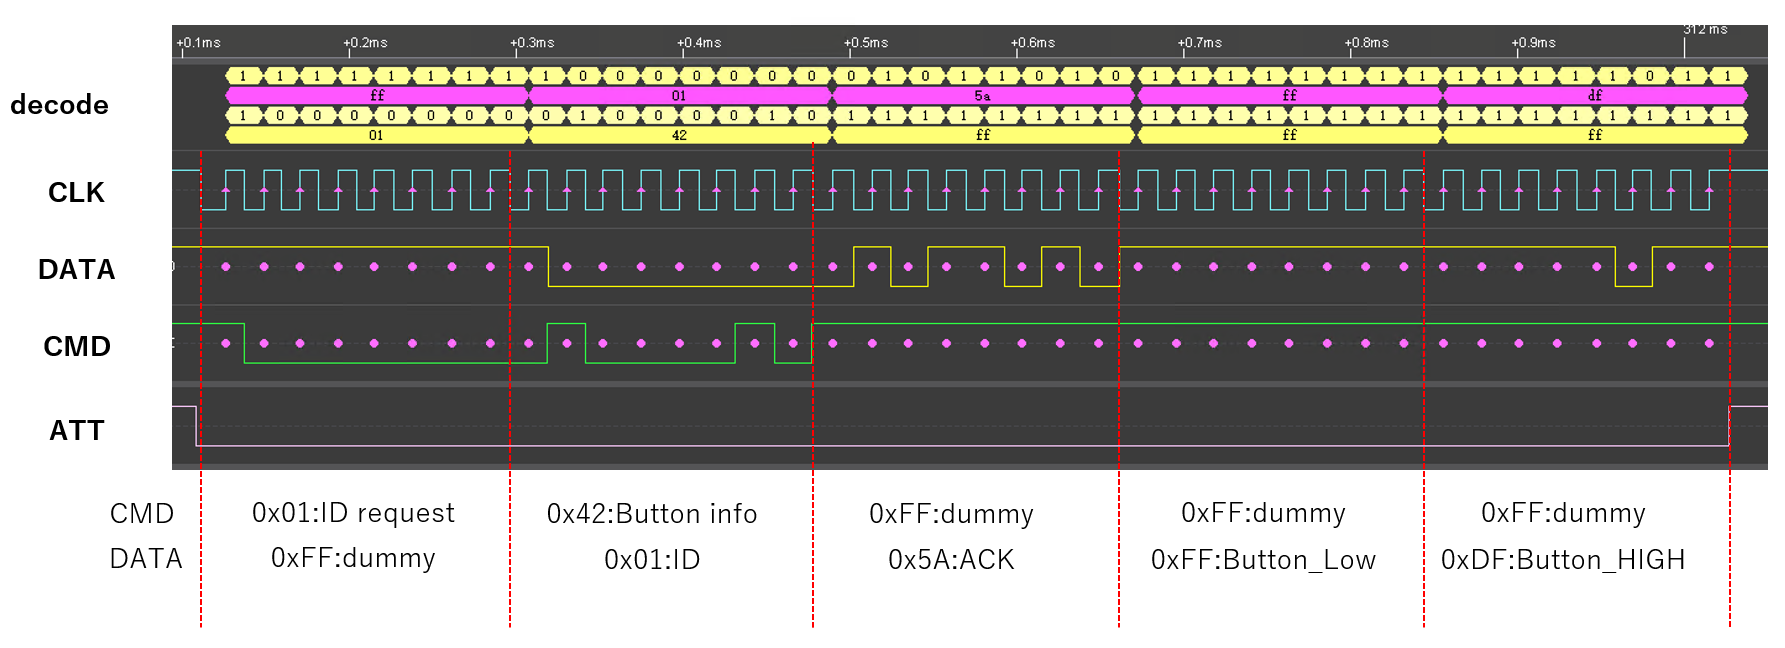
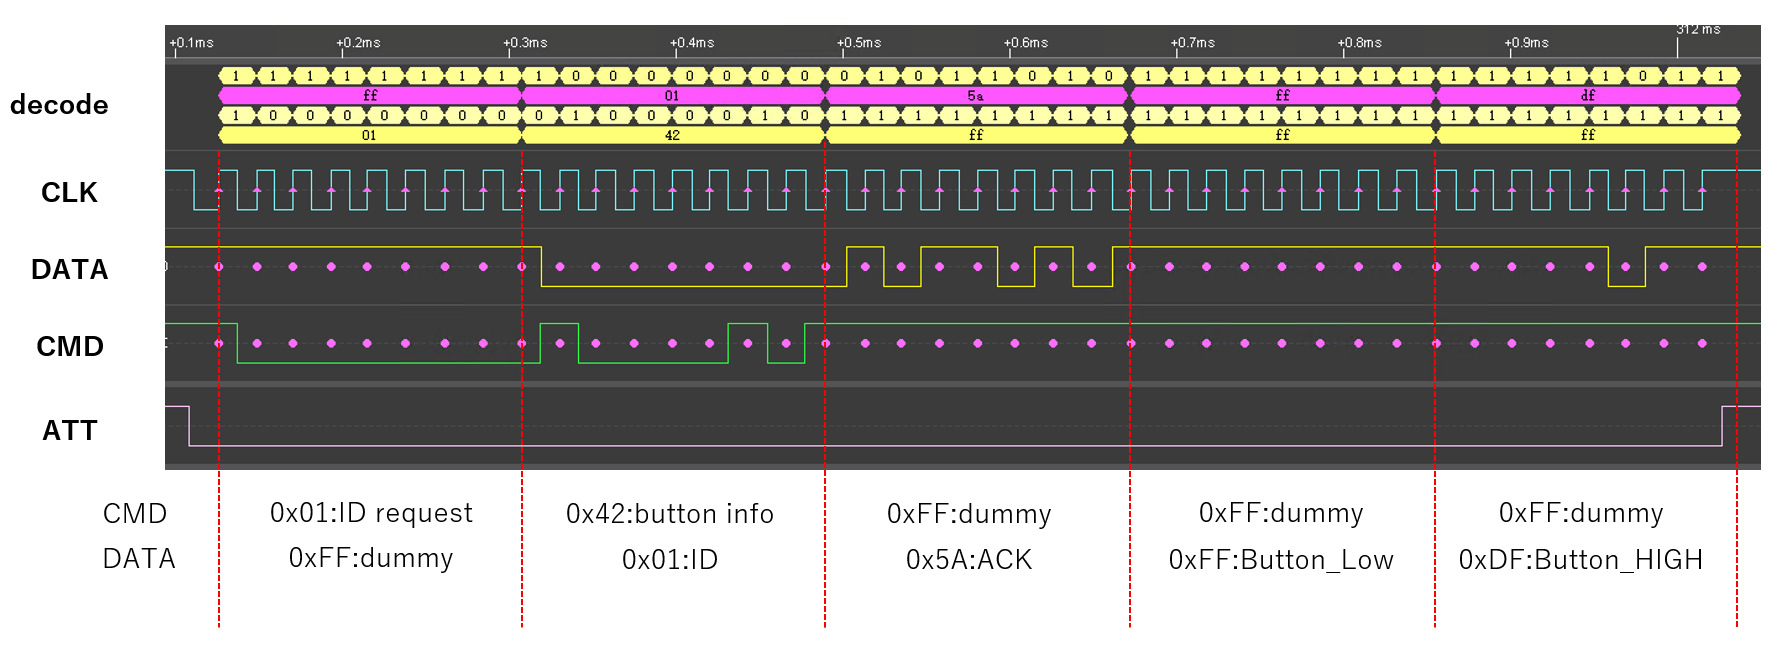
Add communication sequence and button data sections to README

diff --git a/README_JP.md b/README_JP.md
@@ -52,6 +52,39 @@ PSx コントローラーとの通信波形は以下の通りです。
 
 ![通信波形](img/protocol.png)
 
+### 通信シーケンス
+
+通信は1バイト単位で行います。
+ホストはCMDへデータを送信しながら、同時にDATAから受信します。
+コントローラは前のコマンドを処理した結果をホストに返します。
+
+例えばボタン状態を取得する場合は、次のような通信シーケンスになります。
+
+| CMD  |  CMDの内容   | DATA |   DATAの内容   |
+|------|--------------|------|----------------|
+| 0x01 | ID要求       | 0xFF | ダミー         |
+| 0x42 | ボタン情報   | 0x** | ID             |
+| 0xFF | クロック送信 | 0x5A | ACK            |
+| 0xFF | クロック送信 | 0x** | Button Low     |
+| 0xFF | クロック送信 | 0x** | Button High    |
+
+### ボタンデータ
+
+取得したボタン情報は、以下の順番で各ビットに割り当てられます。（LSB first)
+ボタンが押されていない時は"1"、ボタンが押されている時は"0"になります。
+
+[Button Low]
+
+| bit |   0   |   1   |   2   |   3   |   4   |   5   |   6   |   7   |
+|-----|-------|-------|-------|-------|-------|-------|-------|-------|
+| Btn |  SEL  |   -   |   -   | START |  UP   | RIGHT | DOWN  | LEFT  |
+
+[Button High]
+
+| bit |   0   |   1   |   2   |   3   |   4   |   5   |   6   |   7   |
+|-----|-------|-------|-------|-------|-------|-------|-------|-------|
+| Btn |  L2   |  R2   |  L1   |  R1   |  △   |  〇   |  ×   |  □   |
+
 ## API
 
 ### コンストラクタ

diff --git a/README.md b/README.md
@@ -55,6 +55,42 @@ The communication waveform with the PSx controller is shown below.
 
 ![Communication waveform](img/protocol.png)
 
+### Communication Sequence
+
+Communication is performed one byte at a time.
+The host sends data on CMD while simultaneously receiving data on
+DATA. The controller returns the result of processing the previous
+command to the host.
+
+For example, reading the button state involves the following
+communication sequence:
+
+| CMD  |  CMD content        | DATA |   DATA content    |
+|------|----------------------|------|--------------------|
+| 0x01 | ID request           | 0xFF | Dummy              |
+| 0x42 | Button info request  | 0x** | ID                 |
+| 0xFF | Clock only           | 0x5A | ACK                |
+| 0xFF | Clock only           | 0x** | Button Low         |
+| 0xFF | Clock only           | 0x** | Button High        |
+
+### Button Data
+
+The retrieved button information is assigned to each bit in the
+following order (LSB first). A bit is `1` when the button is
+released, and `0` when the button is pressed.
+
+[Button Low]
+
+| bit |   0   |   1   |   2   |   3   |   4   |   5   |   6   |   7   |
+|-----|-------|-------|-------|-------|-------|-------|-------|-------|
+| Btn |  SEL  |   -   |   -   | START |  UP   | RIGHT | DOWN  | LEFT  |
+
+[Button High]
+
+| bit |   0   |   1   |   2   |   3   |   4   |   5   |   6   |   7   |
+|-----|-------|-------|-------|-------|-------|-------|-------|-------|
+| Btn |  L2   |  R2   |  L1   |  R1   | Tri.  | Cir.  | Cross | Squ.  |
+
 ## API
 
 ### Constructor
